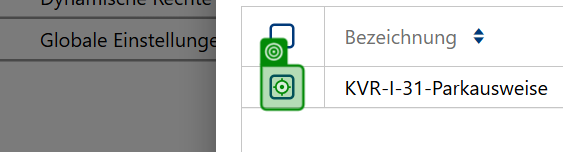
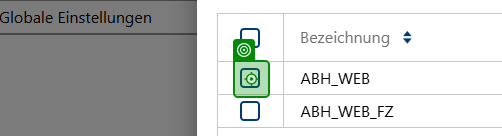
Benötigte Rollen / Gruppen Änderung in SNOW angepasst

diff --git a/Framework/Process.xaml b/Framework/Process.xaml
@@ -167,7 +167,7 @@
       <x:Boolean x:Key="ShouldExpandAll">False</x:Boolean>
     </scg:Dictionary>
   </sap:WorkflowViewStateService.ViewState>
-  <Sequence sap2010:Annotation.AnnotationText="Invoke major steps of the business process, which are usually implemented by multiple subworkflows.&#xA;&#xA;If a BusinessRuleException is thrown, the transaction is skipped. &#xA;If another kind of exception occurs, the current transaction can be retried. " DisplayName="Process" sap:VirtualizedContainerService.HintSize="1281,19988" sap2010:WorkflowViewState.IdRef="Sequence_1">
+  <Sequence sap2010:Annotation.AnnotationText="Invoke major steps of the business process, which are usually implemented by multiple subworkflows.&#xA;&#xA;If a BusinessRuleException is thrown, the transaction is skipped. &#xA;If another kind of exception occurs, the current transaction can be retried. " DisplayName="Process" sap:VirtualizedContainerService.HintSize="1079,20111" sap2010:WorkflowViewState.IdRef="Sequence_1">
     <Sequence.Variables>
       <Variable x:TypeArguments="x:String" Name="str_Date" />
       <Variable x:TypeArguments="x:String" Name="LDAP_Kennung" />
@@ -238,7 +238,7 @@
               <OutArgument x:TypeArguments="x:String">[str_snow_sctask_state]</OutArgument>
             </ui:AssignOperation.To>
             <ui:AssignOperation.Value>
-              <InArgument x:TypeArguments="x:String">2</InArgument>
+              <InArgument x:TypeArguments="x:String">3</InArgument>
             </ui:AssignOperation.Value>
           </ui:AssignOperation>
         </scg:List>
@@ -304,6 +304,7 @@
         </Sequence>
       </If.Else>
     </If>
+    <WriteLine DisplayName="Write Line" sap:VirtualizedContainerService.HintSize="632,123" sap2010:WorkflowViewState.IdRef="WriteLine_33" Text="[Job_SNOW_Ticketinfos(&quot;variables&quot;).ToString]" />
     <Sequence DisplayName="getting data from JSON" sap:VirtualizedContainerService.HintSize="632,992" sap2010:WorkflowViewState.IdRef="Sequence_3">
       <Sequence.Variables>
         <Variable x:TypeArguments="x:String" Name="filepath_and_name" />
@@ -329,7 +330,7 @@
         </Assign.To>
         <Assign.Value>
           <InArgument x:TypeArguments="s:String[]" xml:space="preserve">[Job_SNOW_Ticketinfos("variables").
-Where(Function(v) v("name").ToString = "Gruppe (EWO)").
+Where(Function(v) v("name").ToString = "Benötigte Rollen / Gruppen").
 First()("value").ToString.
 Split(","c).
 Select(Function(x) x.Trim).
@@ -978,7 +979,7 @@ ToArray()]</InArgument>
                                 <OutArgument x:TypeArguments="x:String">[str_snow_sctask_state]</OutArgument>
                               </ui:AssignOperation.To>
                               <ui:AssignOperation.Value>
-                                <InArgument x:TypeArguments="x:String">2</InArgument>
+                                <InArgument x:TypeArguments="x:String">3</InArgument>
                               </ui:AssignOperation.Value>
                             </ui:AssignOperation>
                           </scg:List>
@@ -1198,7 +1199,7 @@ ToArray()]</InArgument>
                         </uix:NClick>
                         <uix:NClick ActivateBefore="True" ClickType="Single" DisplayName="Click 'Checkbox'" HealingAgentBehavior="SameAsCard" sap:VirtualizedContainerService.HintSize="492,198" sap2010:WorkflowViewState.IdRef="NClick_87" InteractionMode="SameAsCard" KeyModifiers="None" MouseButton="Left" ScopeIdentifier="196ad38a-8138-44f1-970d-55b2f1b3409c" Version="V5">
                           <uix:NClick.Target>
-                            <uix:TargetAnchorable DesignTimeRectangle="772, 583, 40, 41" ElementType="CheckBox" ElementVisibilityArgument="Interactive" FuzzySelectorArgument="&lt;wnd cls='Chrome_WidgetWin_1' /&gt;&lt;ctrl name='Select Row KVR-I-31-Parkausweise erstellt-eugen-[phone redacted] Aktiv' matching:name='fuzzy' fuzzylevel:name='0.0' role='outline item' /&gt;&lt;ctrl name='Select Row' matching:name='fuzzy' fuzzylevel:name='0.0' role='cell' /&gt;&lt;ctrl name='Select Row' matching:name='fuzzy' fuzzylevel:name='0.0' role='grouping' /&gt;&lt;ctrl role='check box' automationid='' /&gt;" Guid="bc2592a0-53b9-48f7-abe6-fa25d3172bc4" InformativeScreenshot="b33b7bf2fc1f353ef38b4c40a7ebf00f.png" ScopeSelectorArgument="&lt;wnd app='java*.exe' cls='SunAwtFrame' title='e01/dv.[phone redacted] SYNERGO' /&gt;" SearchSteps="FuzzySelector" Version="V6" WaitForReadyArgument="None" />
+                            <uix:TargetAnchorable DesignTimeRectangle="677, 491, 33, 33" ElementType="CheckBox" ElementVisibilityArgument="Interactive" FullSelectorArgument="&lt;wnd cls='Chrome_WidgetWin_1' /&gt;&lt;ctrl name='Select Row *' matching:name='fuzzy' fuzzylevel:name='0.0' role='outline item' /&gt;&lt;ctrl name='Select Row' matching:name='fuzzy' fuzzylevel:name='0.0' role='cell' /&gt;&lt;ctrl name='Select Row' matching:name='fuzzy' fuzzylevel:name='0.0' role='grouping' /&gt;&lt;ctrl role='check box' automationid='' /&gt;" Guid="bc2592a0-53b9-48f7-abe6-fa25d3172bc4" InformativeScreenshot="879088e270bb86b7b5d2bb19178599a1.png" ScopeSelectorArgument="&lt;wnd app='java*.exe' cls='SunAwtFrame' title='e01/dv.[phone redacted] SYNERGO' /&gt;" SearchSteps="Selector" Version="V6" WaitForReadyArgument="None" />
                           </uix:NClick.Target>
                         </uix:NClick>
                         <uix:NClick ActivateBefore="True" ClickType="Single" DisplayName="Click 'KVR-III-32-Fundbüro'" HealingAgentBehavior="SameAsCard" sap:VirtualizedContainerService.HintSize="492,198" sap2010:WorkflowViewState.IdRef="NClick_91" InteractionMode="SameAsCard" KeyModifiers="None" MouseButton="Left" ScopeIdentifier="196ad38a-8138-44f1-970d-55b2f1b3409c" Version="V5">
@@ -1222,7 +1223,7 @@ ToArray()]</InArgument>
                                   <OutArgument x:TypeArguments="x:String">[str_snow_sctask_state]</OutArgument>
                                 </ui:AssignOperation.To>
                                 <ui:AssignOperation.Value>
-                                  <InArgument x:TypeArguments="x:String">2</InArgument>
+                                  <InArgument x:TypeArguments="x:String">3</InArgument>
                                 </ui:AssignOperation.Value>
                               </ui:AssignOperation>
                             </scg:List>